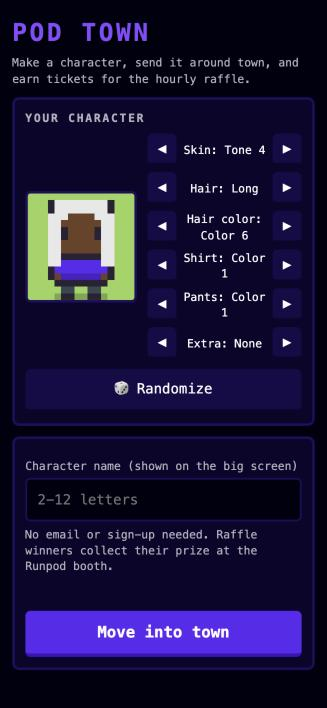
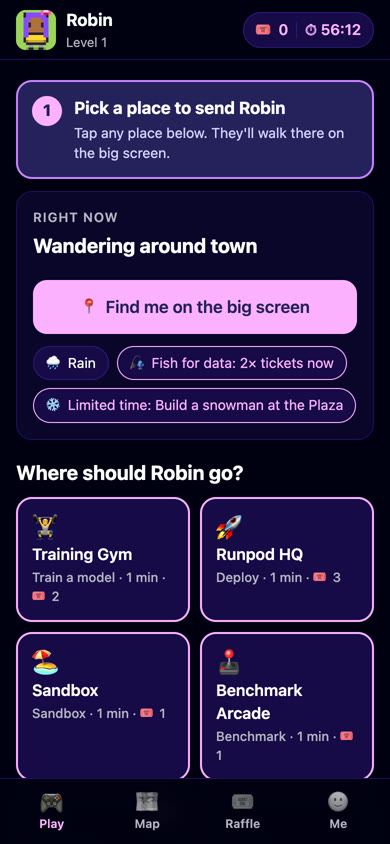
README: promo video, fresh screenshots, v1.1.0 image
- A poster at the top links to the 1-minute promo video, attached to the
  v1.1.0 release (GitHub only plays README videos uploaded through its
  web editor, so the video lives on the release, not in the repo).
- New screenshots of the big screen and the redesigned phone app.
- The template instructions point at the v1.1.0 image.

diff --git a/README.md b/README.md
@@ -6,9 +6,11 @@ Finished activities earn raffle tickets, and a raffle draws every hour.
 
 Players only choose a character name. No app, sign-up or personal data.
 
+[![Watch the 1-minute Pod Town promo](docs/promo-poster.jpg)](https://github.com/Kilo-Loco/pod-town/releases/download/v1.1.0/pod-town-promo.mp4)
+
 | Big screen | Phone |
 | --- | --- |
-| ![The town on the big screen](docs/big-screen.jpg) | ![The phone join page](docs/phone.jpg) |
+| ![The town on the big screen](docs/big-screen.jpg) | ![The phone app: pick a place to send your character](docs/phone.jpg) |
 
 ## Set up for an event
 
@@ -33,7 +35,7 @@ path as `/workspace`. Without it, a Pod restart empties the town and resets the
 admin password, which you must then choose again at once.
 
 **No Pod Town template?** Under Templates, create one: compute type CPU,
-container image `ghcr.io/kilo-loco/pod-town:v1.0.0`, container disk 5 GB, HTTP
+container image `ghcr.io/kilo-loco/pod-town:v1.1.0`, container disk 5 GB, HTTP
 port 8080. Leave everything else blank.
 
 Optional settings, as environment variables on the Pod or template:
